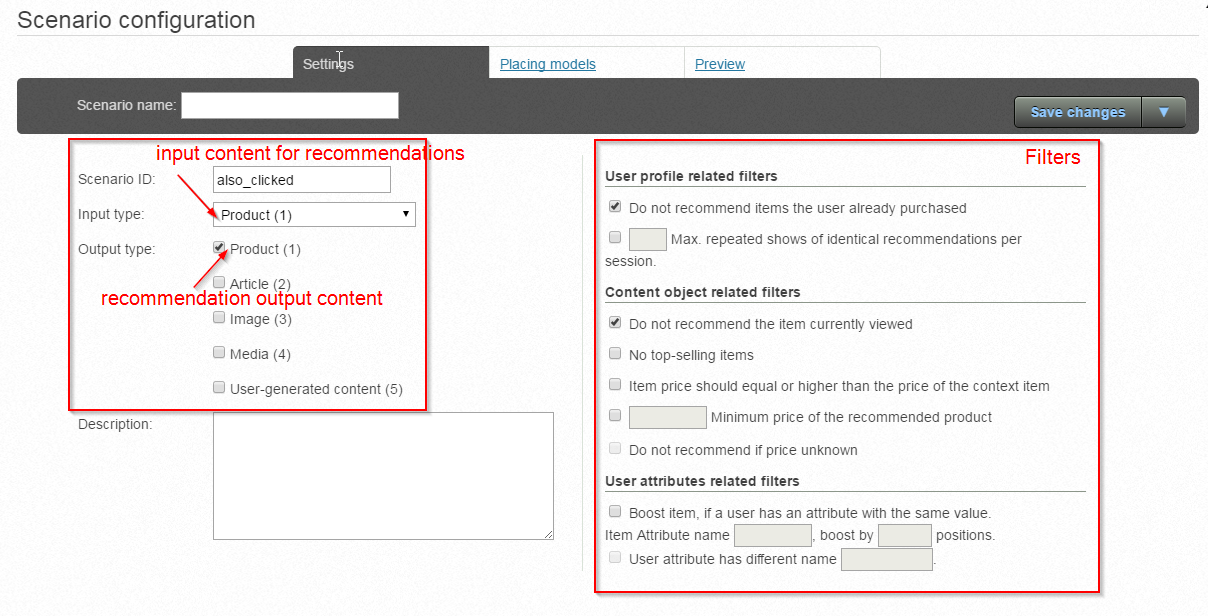
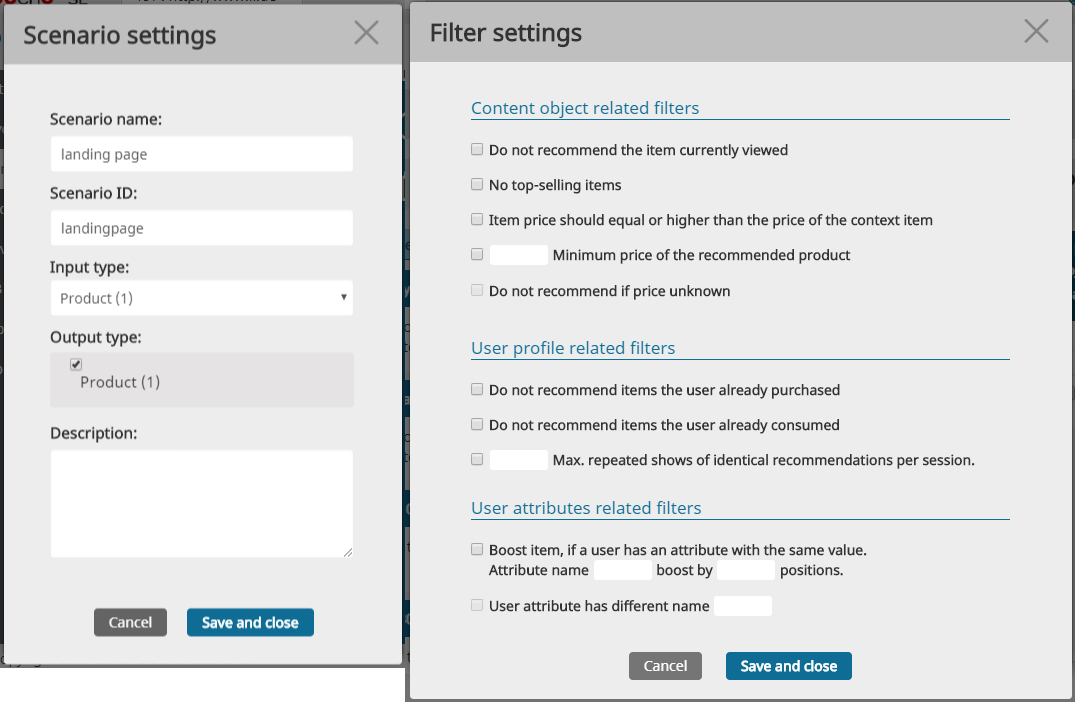
Screenshots update

diff --git a/docs/personalization/user_guide/recommendation_models.md b/docs/personalization/user_guide/recommendation_models.md
@@ -64,21 +64,17 @@ Products on this list will never be recommended in any scenario. Usually test pr
 
 Most of the models provide additional configuration parameters for customization. Here is an example:
 
-Open a Scenario configuration in the Dashboard
+Open a model configuration in the Dashboard and enter the model configuration of a Collaborative-Filtering model
 
-![Scenario configuration in the Dashboard](../img/scenario_config_in_dashboard.png)
+![Model configuration in the Dashboard](../img/model_config_in_dashboard.png)
 
-and enter the model configuration of a Collaborative-Filtering model
-
-![Scenario configuration - Collaborative-Filtering](../img/scenario_config_collaborative.png)
-
-![Scenario configuration details](../img/scenario_config_details.png)
+![Model configuration details](../img/model_config_details.png)
 
 or an Editor-Based model
 
-![Scenario configuration - Editor-Based model](../img/scenario_config_editor.png)
+![Model configuration - Editor-Based model](../img/model_config_editor.png)
 
-![Scenario configuration - Editorial list](../img/scenario_config_editorial_list.png)
+![Model configuration - Editorial list](../img/model_config_editorial_list.png)
 
 The parameters supported by the different types of models are described in the table below. Some models support submodels, see chapter [Submodels](#submodels) for more information. Additional differentiation criteria is the supported [context](Definitions_32869233.html#Definitions-Context). If a model requires context it can only be linked to scenarios that provide the necessary context.
 
@@ -109,13 +105,13 @@ If the possible values of some attribute are a limited set of values, we talk ab
 
 Submodels must be manually configured. Therefore it works only if the number of possible values is relatively small and there is a large group of products for every value. Good examples would be "color" for clothing store, "genre" for a book store or "city district" for a newspaper. Bad examples would be ~~street name~~ (there are too many of them), ~~book author~~ (there are too many of them as well) or EAN-Code (they are unique and therefore hard to group).
 
-Coming back to the color example. We are configuring submodels for a clothing store and want to get recommendations for some color (it can be a predefined color or a color of the context item). Every manufacturer has its own color classification. Similar colors can be grouped together as shown in the picture below:
+Coming back to the color example. We are configuring submodels for `a clothing store and want to get recommendations for some color (it can be a predefined color or a color of the context item). Every manufacturer has its own color classification. Similar colors can be grouped together as shown in the picture below:
 
-![](../img/attribute_example.png)
+![Attribute example](../img/attribute_example.png)
 
 The configuration is done using the property dialog of the recommendation model.
 
-![](../img/attribute_config.png)
+![Attribute configuration](../img/attribute_config.png)
 
 After the submodel is configured and built (happens automatically during the nightly build process) there are several cases for recommendations. Based on the example above the following are possible:
 
@@ -131,7 +127,7 @@ After the submodel is configured and built (happens automatically during the n
 Similar to the nominal submodels, the configuration is about the definition of subgroups. 
 It is done by selecting limits for every group.
 
-![](../img/submodel_config.png)
+![Submodel configuration](../img/submodel_config.png)
 
 There are two values used for setting the limits — `from` and `to`.
 

diff --git a/docs/personalization/user_guide/scenarios.md b/docs/personalization/user_guide/scenarios.md
@@ -1,12 +1,12 @@
 # 8. Scenarios
 
-A scenario is a configuration for getting recommendations. It consists of 3 parts:
+A scenario is a configuration for getting recommendations. It consists of:
 
 1. a [content type](../../definitions.md#content-type) to be returned as recommendation, 
-1. a [filter](../../definitions.md#filter) configuration and
+1. a [filter](../../definitions.md#filter) configuration,
 1. a set of [models](../../definitions.md#model) to be used for generating recommendations.
 
-![Full scenario configuration](../img/scenario_configuration_full.png)
+![Scenario configuration](../img/scenario_configuration_full.png)
 
 We strongly encourage adding several models to a scenario in order to avoid empty recommendation boxes. In the configuration interface there is a matrix provided for the configuration. You can drag available models from the left side into the scenario matrix on the right side.
 
@@ -14,10 +14,10 @@ We strongly encourage adding several models to a scenario in order to avoid empt
 
 The scenario configuration field has several rows. Models located in the same row will be used in parallel and the result will contain an equally distributed mixture of all used model results (horizontal configuration). Models located on the second and third row will be used only if models from the row above return no or not enough results (vertical configuration).
 
-Followinf the example in the images, the first recommendations that will be displayed to the user will come from "Also purchased". If there are no or not enough recommendations available, the "Also clicked" model will be requested. If there are still not enough products in the result set, the "Top purchased" products from the Fail-safe row (not visible in the example image) will be added according to the number of requested recommendations. On the right side of the first rows there is a button to configure Category Filter usage in the recommendation request. This is described in detail in [Category Filter](filters.md#category-filter).
+Following the example in the images, the first recommendations that will be displayed to the user will come from "Also purchased". If there are no or not enough recommendations available, the "Also clicked" model will be requested. If there are still not enough products in the result set, the "Top purchased" products from the Fail-safe row (not visible in the example image) will be added according to the number of requested recommendations. On the right side of the first rows there is a button to configure Category Filter usage in the recommendation request. This is described in detail in [Category Filter](filters.md#category-filter).
 
 In contrast to the model configuration described in the chapter [6. Recommendation Models](recommendation_models.md), the configuration performed in this step is applied only to the selected scenario.
 
-The Preview tab can be used to simulate a recommendations request performed by the system. One only needs to add the required parameters and click 'Send' (in the upper right corner).
+The **Preview** tab can be used to simulate a recommendations request performed by the system. One only needs to add the required parameters and click 'Send' (in the upper right corner).
 
 ![Scenario preview](../img/scenario_preview.png)

diff --git a/docs/personalization/user_guide/dashboard.md b/docs/personalization/user_guide/dashboard.md
@@ -30,19 +30,25 @@ All statistical information can be downloaded in MS Excel format. The timeframes
 
 ### Scenarios
 
-The scenario overview on the bottom of the dashboard shows all available scenarios. Additional info like a description and the delivered recommendations in the selected timeframes are also presented.
+The scenario overview shows all available scenarios. Additional info like a description and the delivered recommendations in the selected timeframes are also presented.
 
 ![Dashboard scenarios](../img/dashboard_scenarios.png)
 
-Scenarios with green status bars indicate that all models can provide recommendations. Yellow bars indicate that only a part of the configured models can provide recommendations and red ones indicate that no recommendations can be delivered (see [6. Recommendation Models](recommendation_models.md) and [8. Scenarios](scenarios.md)).
+Scenarios with green status bars indicate that all models can provide recommendations. Yellow bars indicate that only a part of the configured models can provide recommendations and red ones indicate that no recommendations can be delivered see [8. Scenarios](scenarios.md).
 
-### Added Revenue
+### Models
+
+This tab allows you to see all available models and configure them, see [6. Recommendation Models](recommendation_models.md) 
+
+![Dashboard models](../img/dashboard_models.png)
+
+### Revenue details
 
 This tab shows you when recommendations were bought and how much time passed between the click on the recommendation and the buying event.
 
 ![Dashboard Added Revenue](../img/dashboard_added_revenue.png)
 
-### A/B Tests
+### A/B Testing
 
 This tab holds an overview of A/B Tests. Finished, currently running and scheduled tests are listed here.
 
@@ -50,11 +56,11 @@ This tab holds an overview of A/B Tests. Finished, currently running and schedul
 
 ### Plugins
 
-If a plugin was used to register the service, specific settings can be configured here.
+If a plugin was used to register the service, specific settings can be configured under **Plugins**.
 
 ![Dashboard Plugins](../img/dashboard_plugins.png)
 
-### Item Import
+### Import/Export
 
 Item import jobs are used to fetch data from a customer system. Data-mappings and schedule times are defined here.
 
@@ -62,6 +68,5 @@ Item import jobs are used to fetch data from a customer system. Data-mappings an
 
 ### Newsletter
 
-Newsletters are sent out if certain events happen, like a user did not come back for n days or the shopping cart was abandoned. Style and conditions are configured in this tab.
+Newsletters are sent out if certain events happen, like a user did not come back for n days or the shopping cart was abandoned. Style and conditions are configured in **Newsletter** tab.
 
-![Dashboard Newsletter](../img/dashboard_newsletter.png)

diff --git a/docs/personalization/user_guide/filters.md b/docs/personalization/user_guide/filters.md
@@ -98,7 +98,7 @@ For every recommendation scenario a set of filters can be defined. They are appl
 
 In addition to general filters, which remove specified elements from recommendations, the boost filter allows shifting (boosting) selected recommended items to the top positions of the recommendation response. This may happen if a selected attribute of the customer has the same value as the selected attribute of the recommended item. For example, we can show the news from the user's home country with higher priority than the rest.
 
-Assuming every item in the picture below has the attribute "country" and the user has the attribute "country\_of\_origin", the boost filter can be configured like this:
+Assuming every item in the picture below has the attribute "country" and the user has the attribute "country\_of\_origin", the boost filter can be configured in **Filter settings** like this:
 
 ![Boost filter settings](../img/boost_filters.png)
 

diff --git a/docs/personalization/user_guide/content_types.md b/docs/personalization/user_guide/content_types.md
@@ -26,7 +26,7 @@ Below is a comparison for different ways of splitting content in the recommendat
 
 If multiple content types are enabled, one must enable this output type for every scenario that should recommend this type.
 
-![Scenario configuration](../img/scenario_configuration.png)
+![Scenario settings](../img/scenario_configuration.png)
 
 Every scenario supports a single input type and multiple output types (see [8. Scenarios](scenarios.md)). Every recommendation request delivers only content of one output content type (even if multiple are selected in the interface above). The output type is set during the recommendation request and must be covered by the list of the supported content types in the requested scenario.
 
